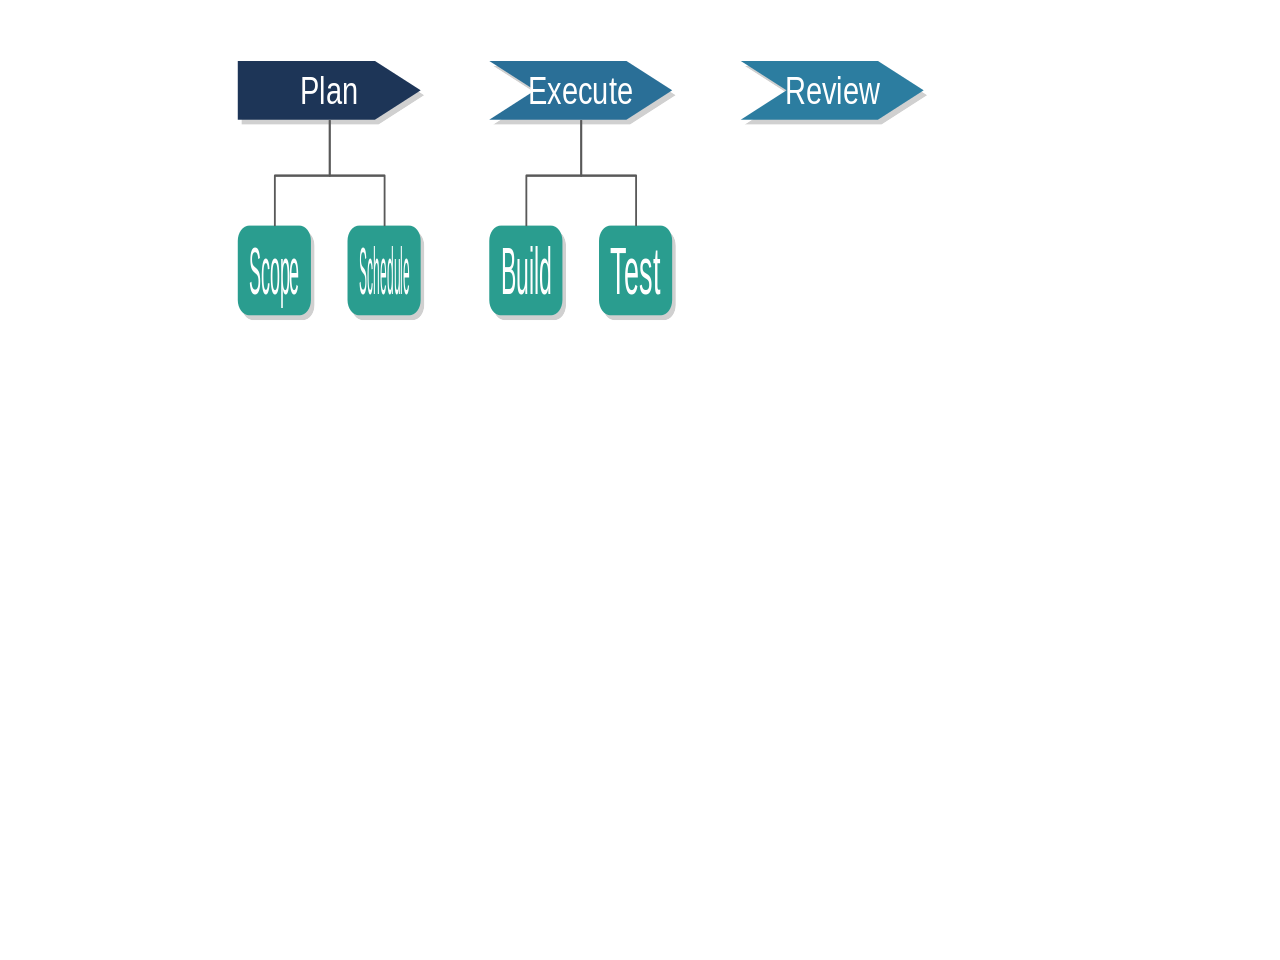
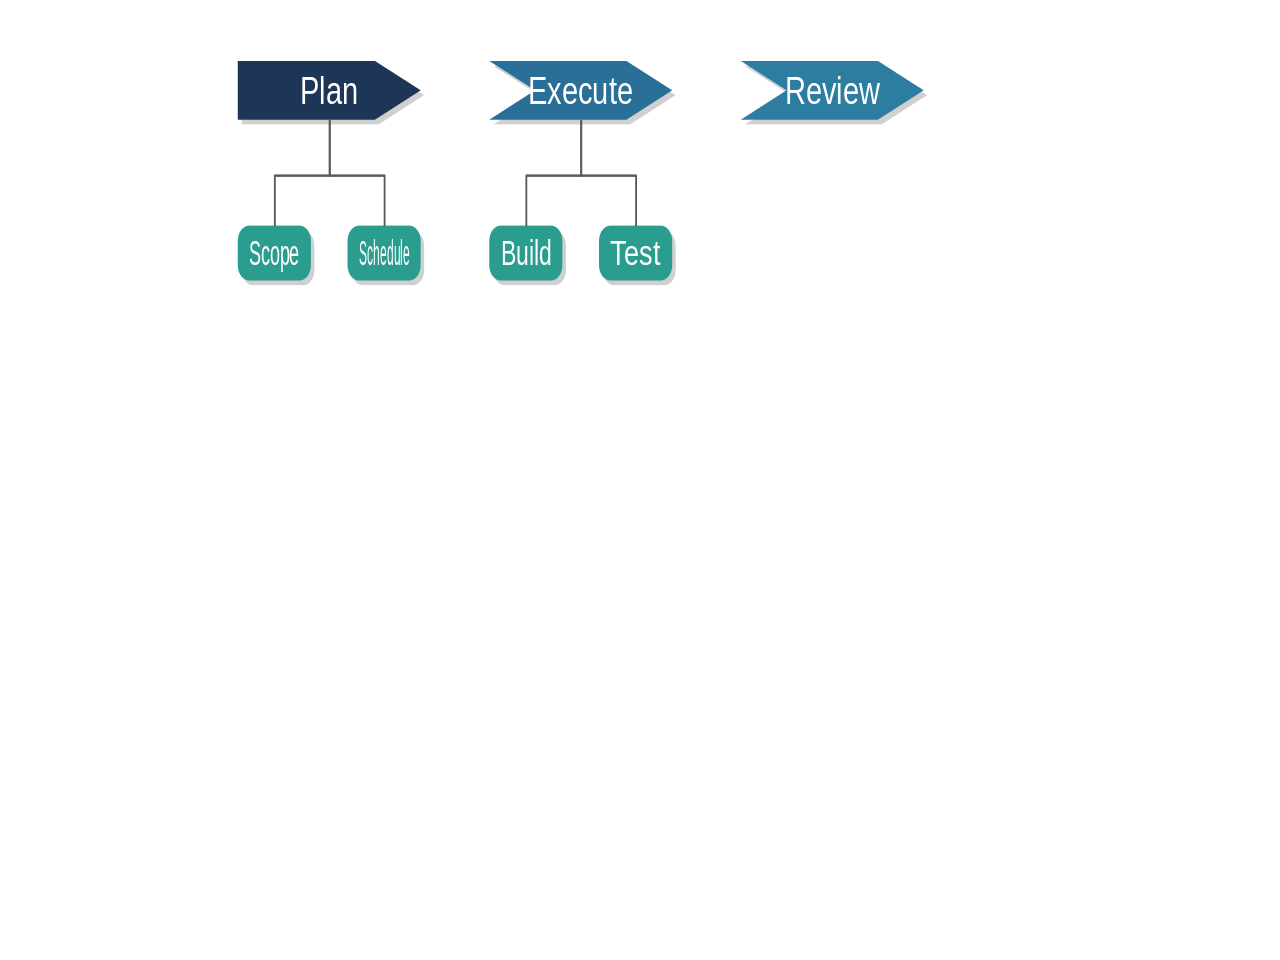
De-squish text in hub & spoke and process/chevron sub-items
The PROPORTIONAL text fit was shrinking long labels to fit shapes that were
too small, leaving them tiny and squished. Give the text room instead:

- Hub & Spoke: enlarge circle diameters (hub 3000, spokes 2500, deeper 2100,
  was a fixed ~1500) so labels like "Innovation"/"Technology" read at a
  sensible size. Ring radius already auto-scales to keep them from overlapping.
- Process Flow / Sequential Chevron: make level-2 sub-items short and landscape
  (height 900, was ~1470 portrait) so the single-line label fills the box
  rather than floating small in a tall box.

Update SequentialChevron sub-item height assertion. Screenshots regenerated.
141 unit + 2 integrity tests pass.

Changed region(s): [[0.1875, 0.25, 0.3438, 0.3438], [0.375, 0.25, 0.5312, 0.3438]]

diff --git a/src/main/java/org/libreimpress/smartart/layout/HubAndSpokeLayout.java b/src/main/java/org/libreimpress/smartart/layout/HubAndSpokeLayout.java
@@ -24,9 +24,17 @@ public final class HubAndSpokeLayout {
     private HubAndSpokeLayout() {
     }
 
-    /** Diameter of a circle node at the given level. */
+    /**
+     * Diameter of a circle node at the given level. Circles are sized generously
+     * so typical labels (e.g. "Technology", "Innovation") fit at a readable size
+     * rather than being shrunk to fit a tiny circle.
+     */
     private static int nodeDiameter(int level) {
-        return Math.max(1500, BASE_NODE_H - (level - 1) * SIZE_DECREMENT);
+        switch (level) {
+            case 1:  return 3000; // hub
+            case 2:  return 2500; // spokes
+            default: return 2100; // level-3+ descendants
+        }
     }
 
     /**

diff --git a/src/test/java/org/libreimpress/smartart/layout/SequentialChevronLayoutTest.java b/src/test/java/org/libreimpress/smartart/layout/SequentialChevronLayoutTest.java
@@ -140,8 +140,11 @@ public class SequentialChevronLayoutTest {
         DiagramLayout layout = SequentialChevronLayout.layout(root);
         LaidOutShape chevronShape = layout.getShapes().get(0);
         LaidOutShape subitemShape = layout.getShapes().get(1);
-        // Subitem (level-2) should be smaller than chevron (level-1)
+        // Subitem (level-2) should be smaller than chevron (level-1): slightly
+        // narrower, and a short landscape height so the text fills the box.
         assertEquals(chevronShape.getWidth() - 30, subitemShape.getWidth());
-        assertEquals(chevronShape.getHeight() - 30, subitemShape.getHeight());
+        assertEquals(SequentialChevronLayout.SUBITEM_H, subitemShape.getHeight());
+        assertTrue("subitem should be shorter than the chevron",
+                subitemShape.getHeight() < chevronShape.getHeight());
     }
 }

diff --git a/src/main/java/org/libreimpress/smartart/layout/ProcessFlowLayout.java b/src/main/java/org/libreimpress/smartart/layout/ProcessFlowLayout.java
@@ -19,6 +19,7 @@ public final class ProcessFlowLayout {
     static final int H_GAP = 1500;  // space between consecutive step boxes
     static final int V_GAP = 800;   // vertical gap between parent and child rows
     static final int CHILD_H_GAP = 400; // horizontal gap between children in a row
+    static final int SUBITEM_H = 900;   // landscape sub-item height (text fills it instead of floating)
     static final int SLIDE_W = 25400; // standard Impress slide: 254 mm
     static final int SLIDE_H = 19050; // standard Impress slide: 190.5 mm
     static final int MARGIN_X = 1000;
@@ -83,7 +84,7 @@ public final class ProcessFlowLayout {
         // Place level-2 children below each step in a horizontal row, scaled to
         // fit within the step's width so columns never overlap.
         int baseW2 = nodeWidth(2);
-        int h2 = nodeHeight(2);
+        int h2 = SUBITEM_H;
         int childY = y1 + h1 + V_GAP;
         for (int i = 0; i < n; i++) {
             List<DiagramNode> children = steps.get(i).getChildren();

diff --git a/src/main/java/org/libreimpress/smartart/layout/SequentialChevronLayout.java b/src/main/java/org/libreimpress/smartart/layout/SequentialChevronLayout.java
@@ -23,6 +23,7 @@ public final class SequentialChevronLayout {
     static final int MARGIN_X = 1000;
     static final int MARGIN_Y = 1000;
     static final int CHILD_V_GAP = 500; // vertical gap between a sub-item and its children
+    static final int SUBITEM_H = 900;   // landscape sub-item height (text fills it instead of floating)
 
     private SequentialChevronLayout() {
     }
@@ -87,7 +88,7 @@ public final class SequentialChevronLayout {
             if (!subitems.isEmpty()) {
                 int n2 = subitems.size();
                 int baseW2 = nodeWidth(2);
-                int h2 = nodeHeight(2);
+                int h2 = SUBITEM_H;
                 // Shrink each sub-item so the whole row fits inside the chevron.
                 int w2 = Math.min(baseW2, (w1 - (n2 - 1) * SUBITEM_GAP) / n2);
                 int totalSubitemWidth = n2 * w2 + (n2 - 1) * SUBITEM_GAP;